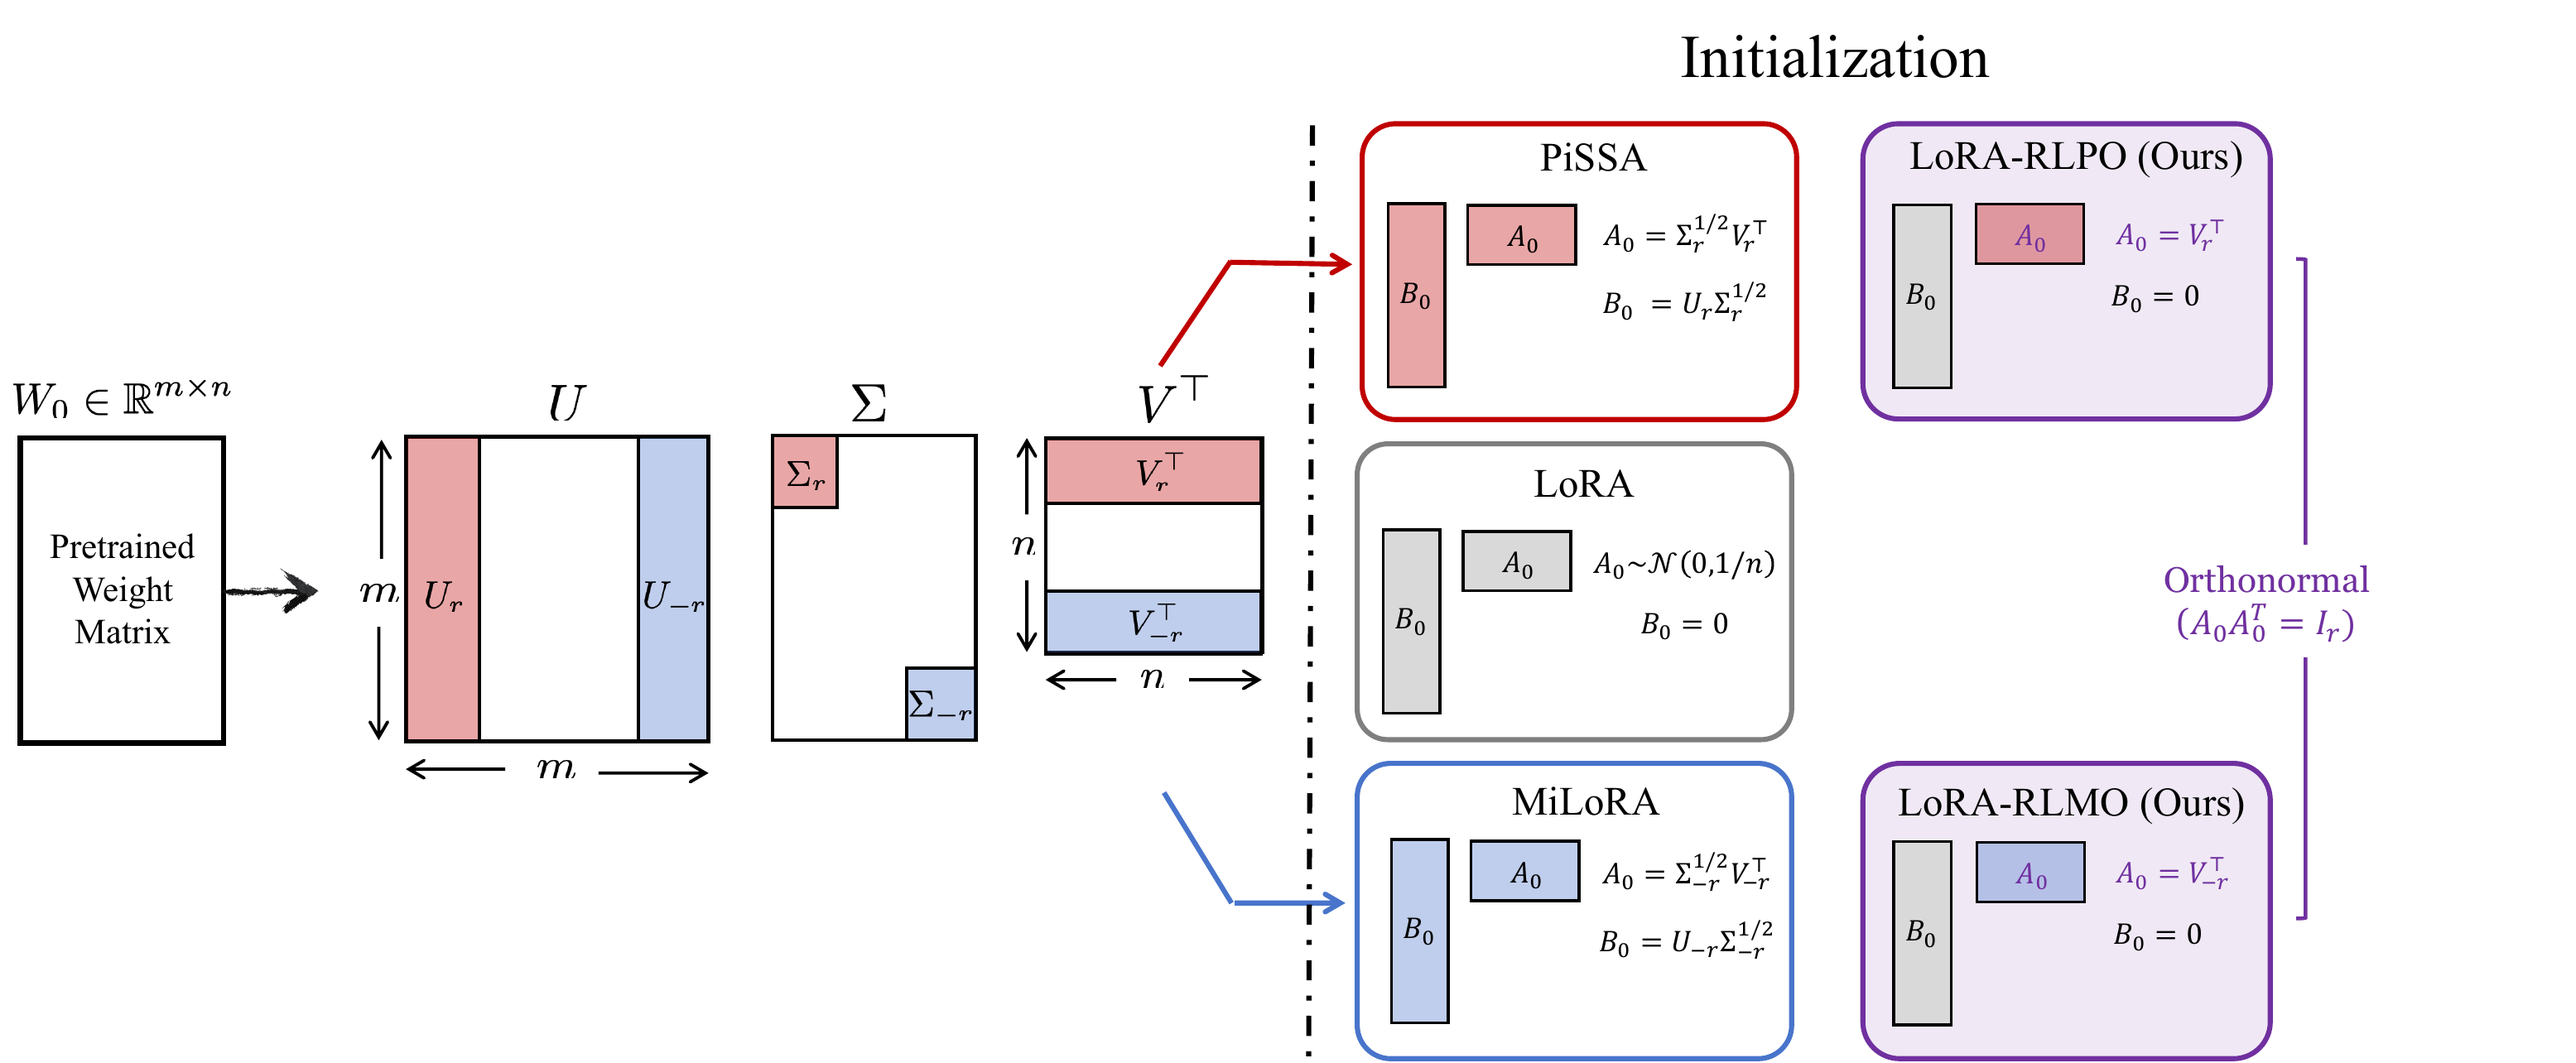
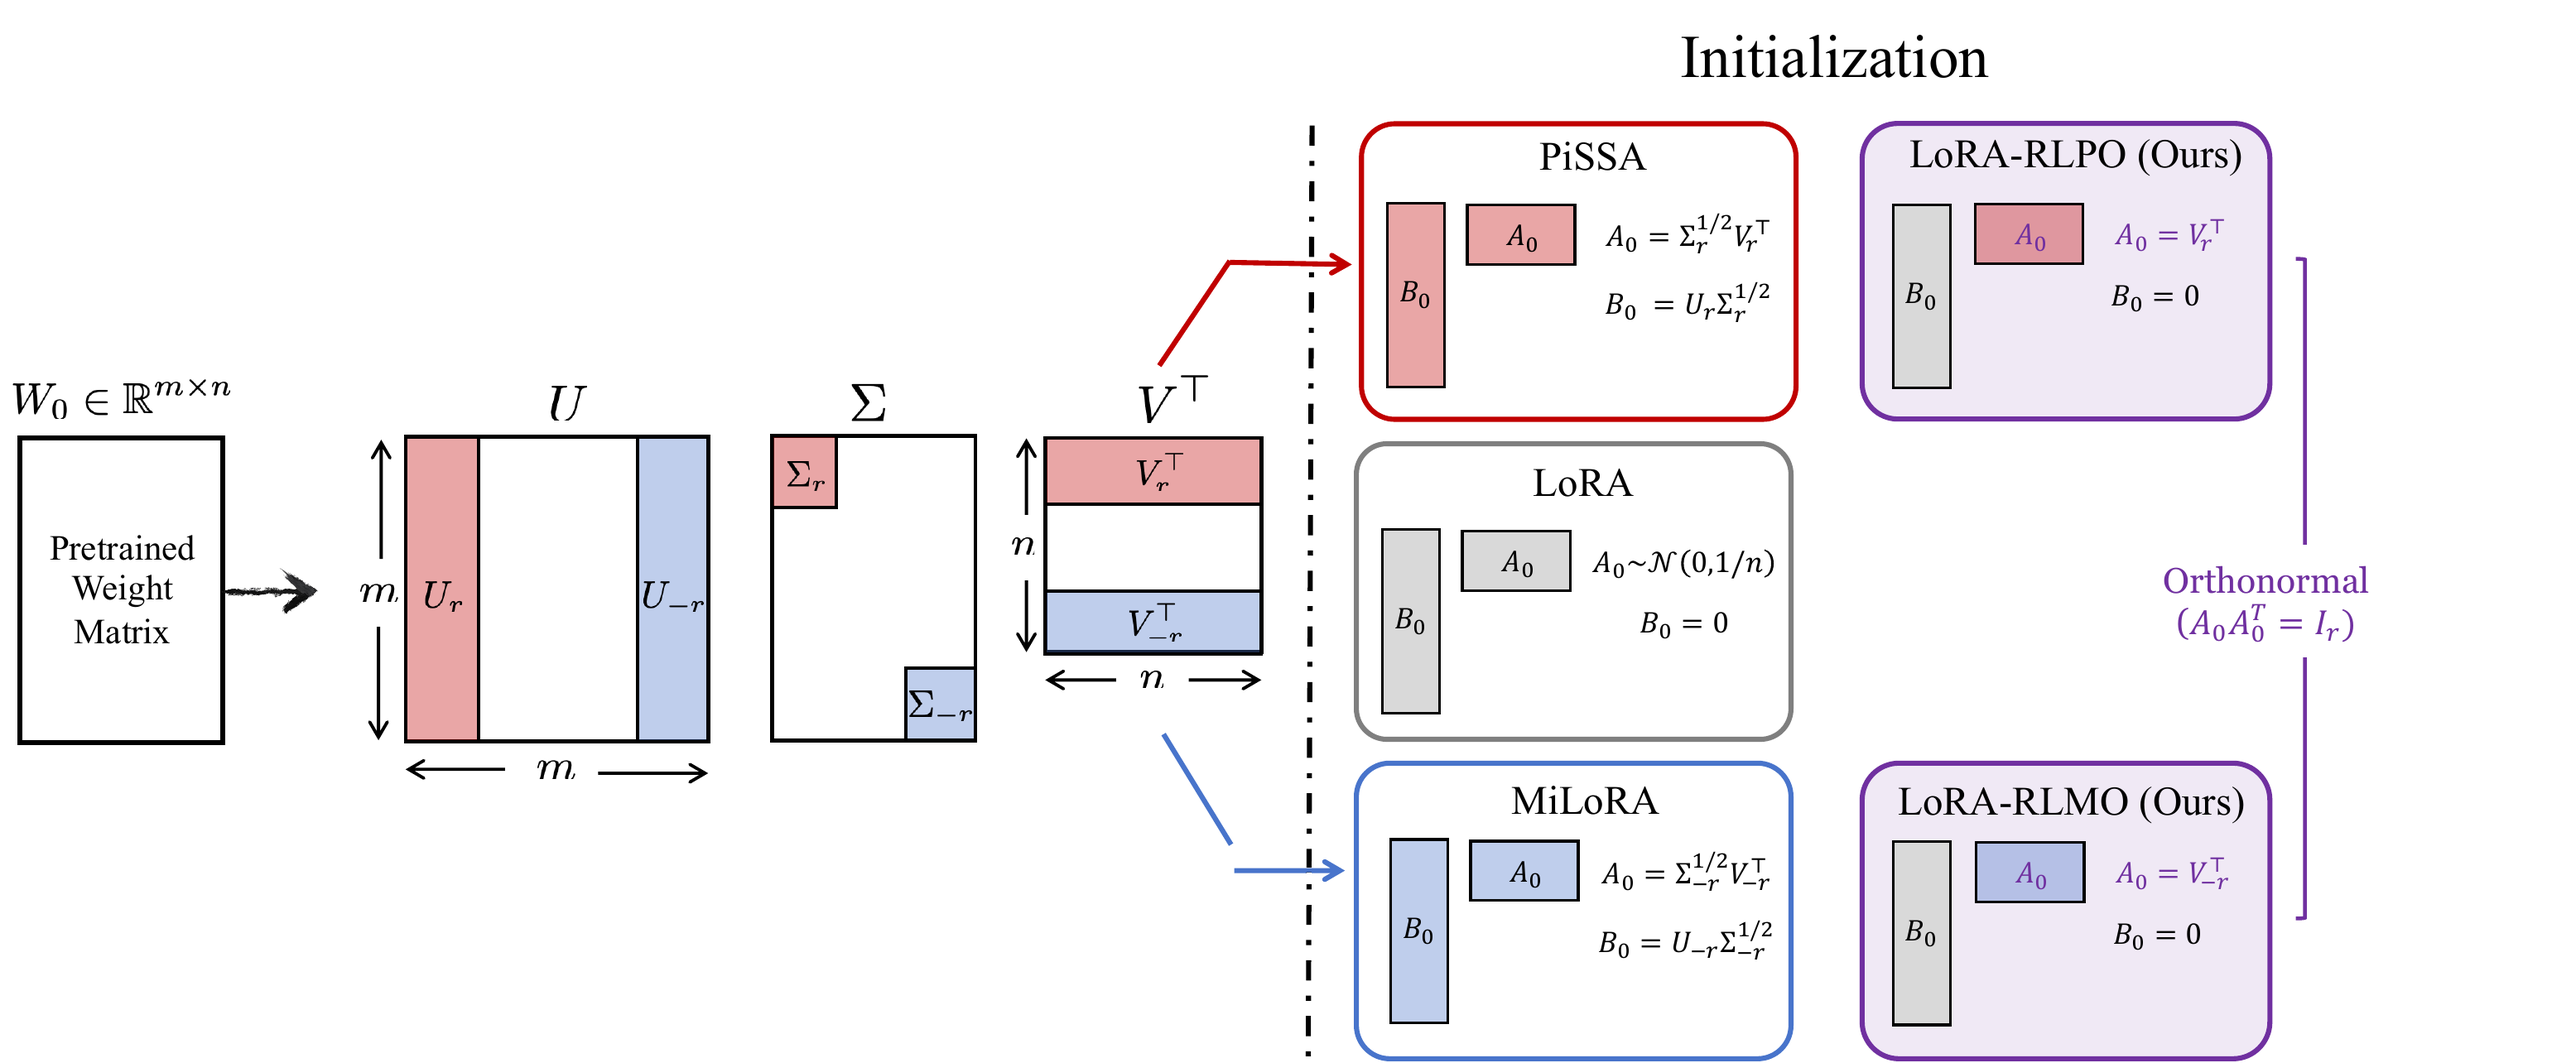
Align LoRA research figure arrow

diff --git a/index.md b/index.md
@@ -42,7 +42,7 @@ My research is driven by a broad interest in the <strong>science of AI</strong>:
 
   <article class="research-card">
     <a class="research-figure" href="https://arxiv.org/abs/2606.31813" aria-label="Read Geometry-Preserving Orthonormal Initialization for Low-Rank Adaptation in RLVR">
-      <img src="{{ '/assets/img/research/lora-initialization-web.png' | relative_url }}?v=20261009-2" alt="Comparison of LoRA, PiSSA, MiLoRA, LoRA-RLPO, and LoRA-RLMO initialization strategies">
+      <img src="{{ '/assets/img/research/lora-initialization-web.png' | relative_url }}?v=20261009-3" alt="Comparison of LoRA, PiSSA, MiLoRA, LoRA-RLPO, and LoRA-RLMO initialization strategies">
     </a>
     <div class="research-copy">
       <span class="research-eyebrow">LLM alignment · ICML 2026</span>
